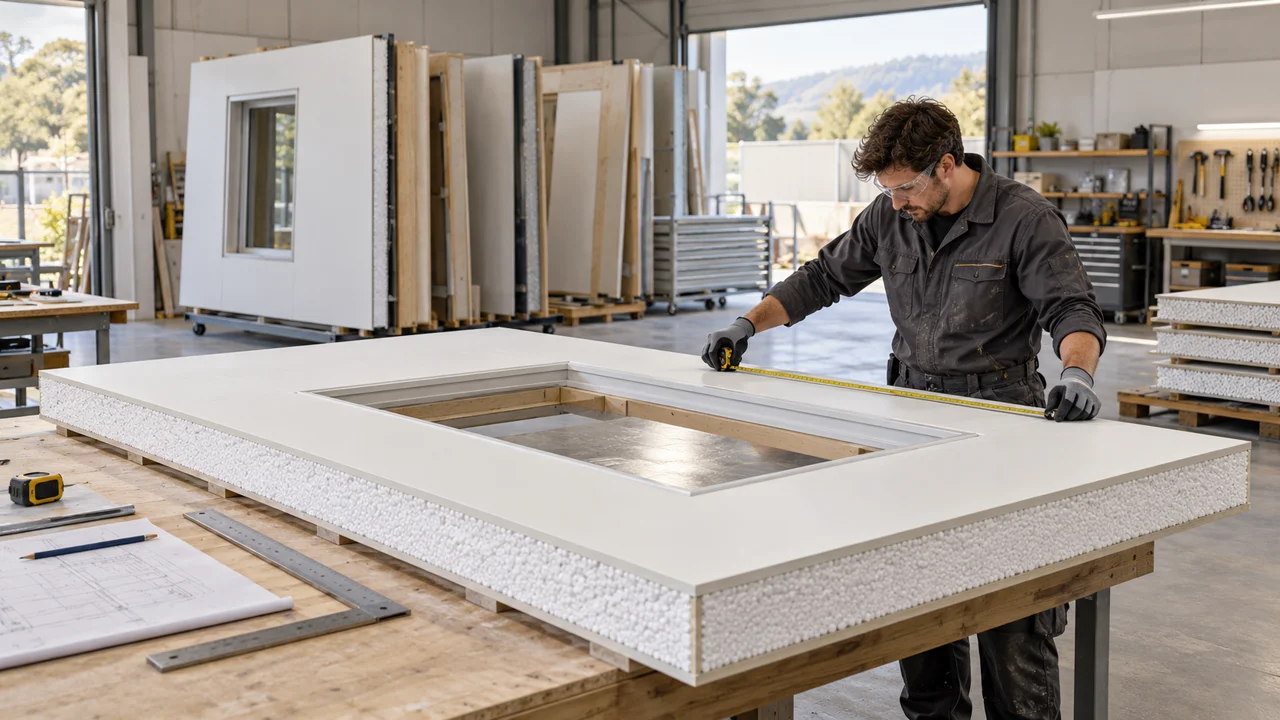
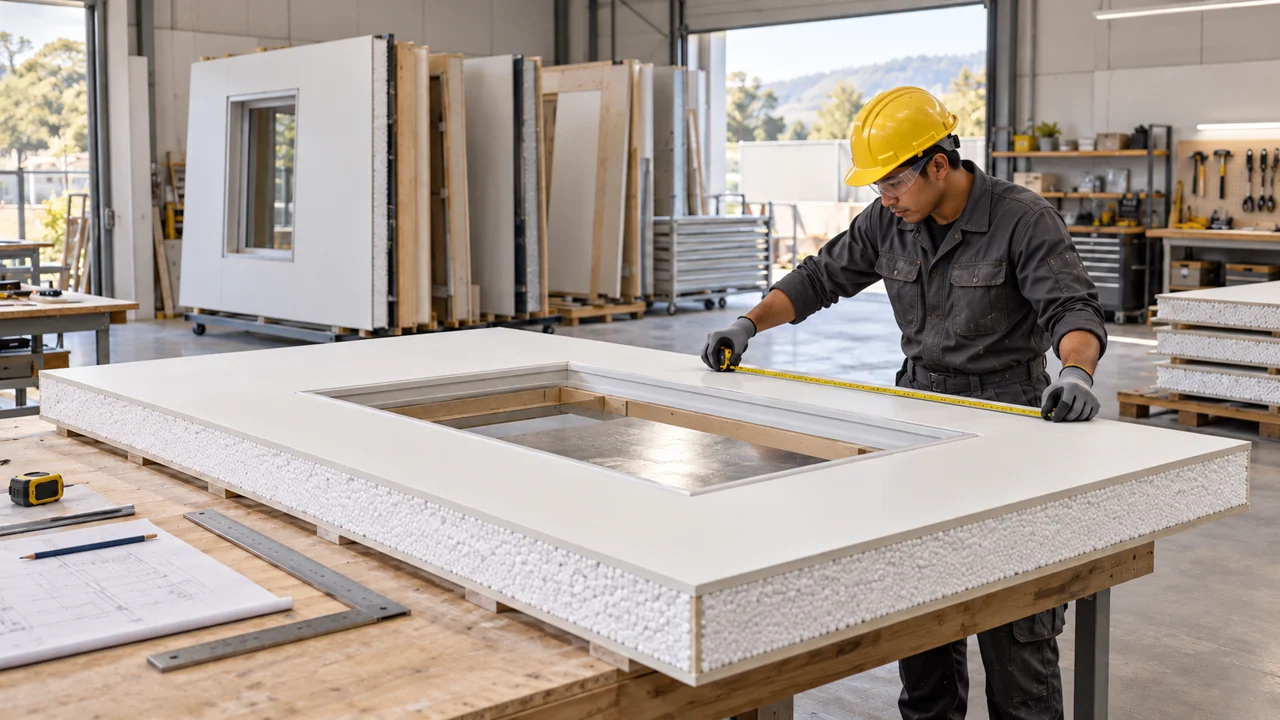
Depict Indonesian workers in materials preparation illustrations

diff --git a/studio.js b/studio.js
@@ -36,7 +36,7 @@ export const materials = {
         label: "Preparation",
         image: "library-eps-preparation",
         concept: true,
-        alt: "Illustrative design concept — Workshop concept showing a technician checking a prepared composite EPS panel",
+        alt: "Illustrative design concept — Indonesian construction worker wearing protective equipment measures a prepared composite EPS panel in a workshop",
         note: "Coordinate dimensions and openings, review the finish sample, and check prepared panels against the approved sequence before dispatch and installation.",
       },
     ],
@@ -85,7 +85,7 @@ export const materials = {
         image: "bemmel-lattice-workshop",
         caption: "Preparation / Workshop assembly",
         concept: true,
-        alt: "Two artisans assemble a braided lattice beam in a timber workshop jig",
+        alt: "Illustrative design concept — Two Indonesian construction workers wearing safety glasses and gloves assemble a braided lattice beam in a timber workshop jig",
         note: "Braid, consolidate and shape the profile for its intended role. Production details, quality checks and connections follow the engineered specification.",
       },
     ],
@@ -130,7 +130,7 @@ export const materials = {
         label: "Preparation",
         image: "library-ror-preparation",
         concept: true,
-        alt: "Illustrative design concept — Workshop concept of roof substrate checks and fibreglass reinforcement preparation",
+        alt: "Illustrative design concept — Indonesian construction workers wearing protective equipment prepare woven fibreglass reinforcement over a curved roof substrate",
         note: "Check the substrate and roof details before work starts. Use the approved preparation, reinforcement and application method; confirm compatibility and required performance.",
       },
     ],
@@ -175,7 +175,7 @@ export const materials = {
         label: "Preparation",
         image: "library-scale-preparation",
         concept: true,
-        alt: "Illustrative design concept — Logistics concept of secured composite-panel racks and sequenced dispatch",
+        alt: "Illustrative design concept — Indonesian construction and logistics workers in hard hats and high-visibility vests coordinate secured composite-panel racks for dispatch",
         note: "Agree dimensions and system scope early, protect the prepared components, and coordinate delivery with the site’s installation sequence.",
       },
     ],
